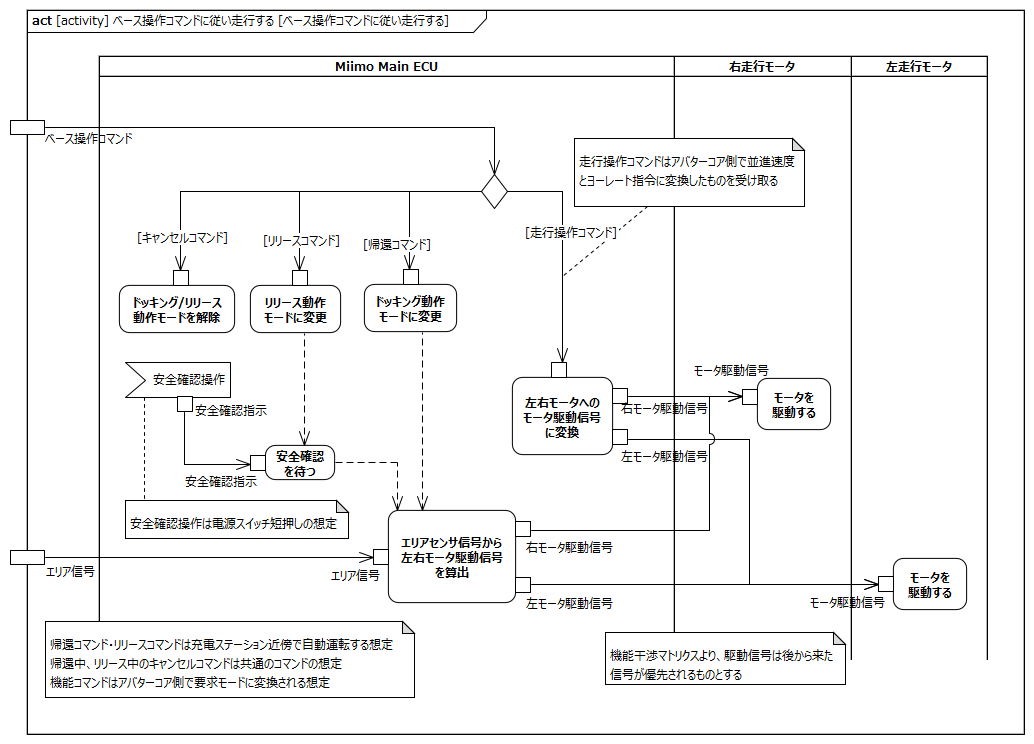
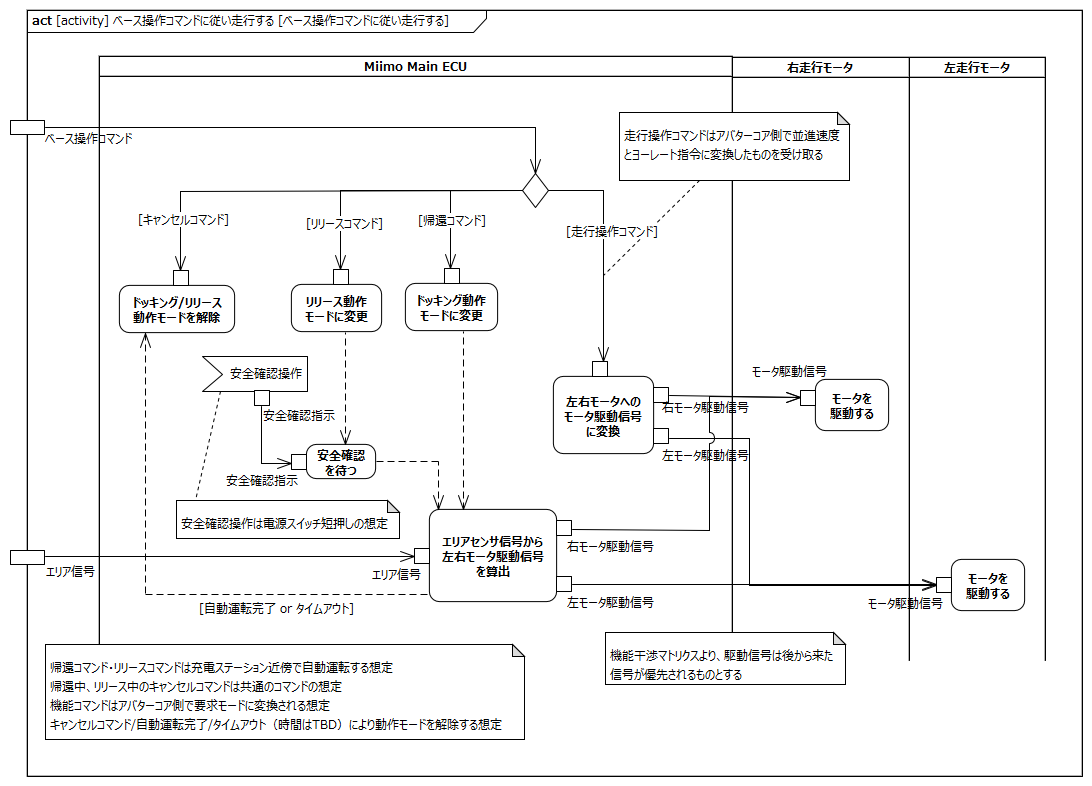
20220216のQA結果反映 ・自動運転のタイムアウトについての記述追加（アクティビティ図も修正）

Changed region(s): [[0.0, 0.0, 1.0, 0.9892]]

diff --git a/requirements/remote_control.md b/requirements/remote_control.md
@@ -169,13 +169,14 @@ avatarin側の責務のため、対象外とする。
 |Miimo Main ECUは帰還コマンドを受け付けた場合、動作モードをドッキング動作モードに変更し、エリアセンサ信号から左右走行モータ駆動信号を算出する|※1※2|
 |Miimo Main ECUはリリースコマンドを受け付けた場合、動作モードをリリース動作モードに変更する|※1※3|
 |Miimo Main ECUはリリース動作モード時に安全確認操作を受け付けた場合、エリアセンサ信号から左右走行モータ駆動信号を算出する|※2※3|
-|Miimo Main ECUはキャンセルコマンドを受け付けた場合、動作モードをドッキング/リリース動作モードから解除する|※1|
-|Miimo Main ECUは走行操作コマンドを受け付けた場合、左右走行モータへのモータ駆動信号に変換する|※4|
-|右走行モータはモータ駆動信号を受け取り動作する|※5|
-|左走行モータはモータ駆動信号を受け取り動作する|※5|
+|Miimo Main ECUはキャンセルコマンドの受け付け/自動運転の完了/自動運転のタイムアウトにより、動作モードをドッキング/リリース動作モードから解除する|※1※4|
+|Miimo Main ECUは走行操作コマンドを受け付けた場合、左右走行モータへのモータ駆動信号に変換する|※5|
+|右走行モータはモータ駆動信号を受け取り動作する|※6|
+|左走行モータはモータ駆動信号を受け取り動作する|※6|
 
 ※1:機能コマンドはアバターコア側で要求モードに変換したものを受け取る想定  
 ※2:充電ステーション近傍での自動運転を想定（近傍以外の自動運転はアバターコア側に指示責務があるものと想定）  
 ※3:リリースの自動運転は、リリースコマンド受付→安全確認→自動運転開始となる想定。安全確認操作は電源スイッチ短押しの想定  
-※4:走行操作コマンドはアバターコア側で並進速度とヨーレート指令に変換したものを受け取る想定  
-※5:機能干渉マトリクスより、走行モータ駆動中に別のモータ駆動信号が入力された場合、その信号に従って動作する  
+※4:ドッキング/リリース動作モードが解除されることにより自動運転が終了する想定。ドッキング動作モードはDC-ON検知により自動運転完了となる想定。リリース動作モードはDC-OFF検知し一定距離（20cmを想定）後進することで自動運転完了となる想定。タイムアウトは自動運転開始から一定時間内に終了しなかった場合に発生する想定（タイムアウト時間はリリース自動運転とドッキング自動運転で異なる想定。具体的な時間はTBD）  
+※5:走行操作コマンドはアバターコア側で並進速度とヨーレート指令に変換したものを受け取る想定  
+※6:機能干渉マトリクスより、走行モータ駆動中に別のモータ駆動信号が入力された場合、その信号に従って動作する  
